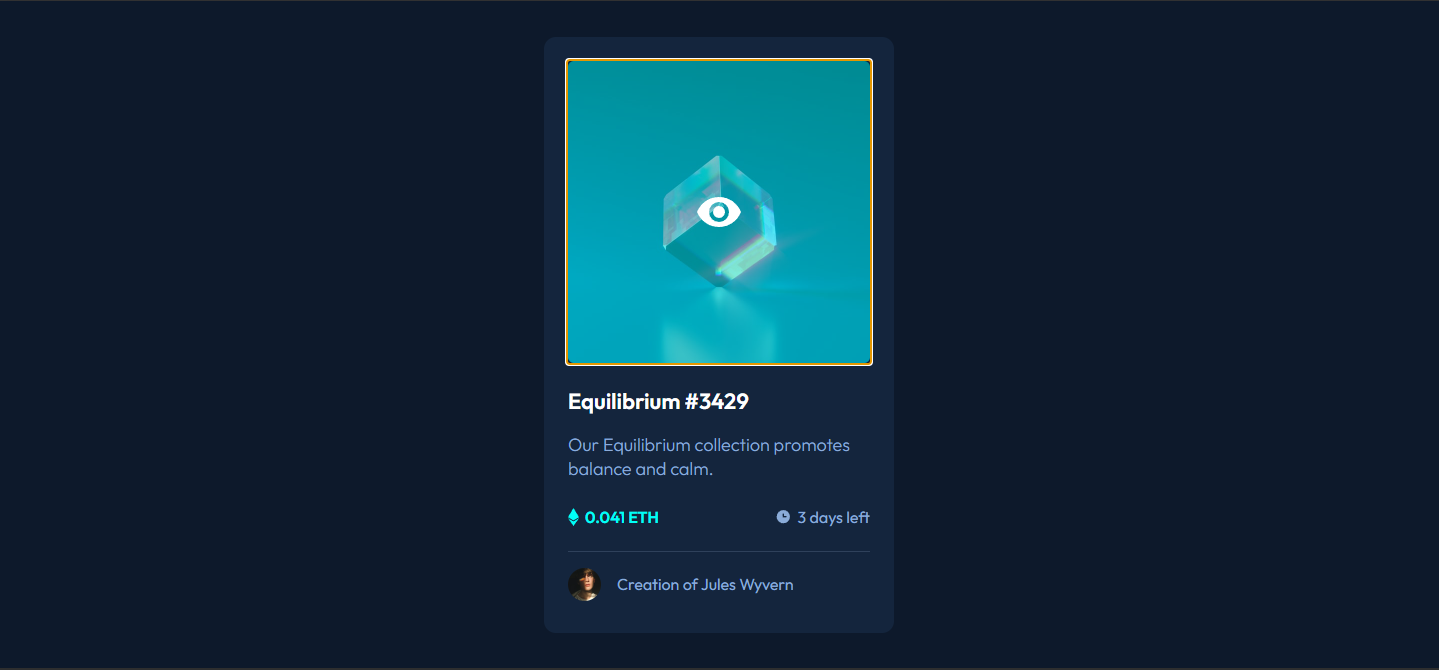
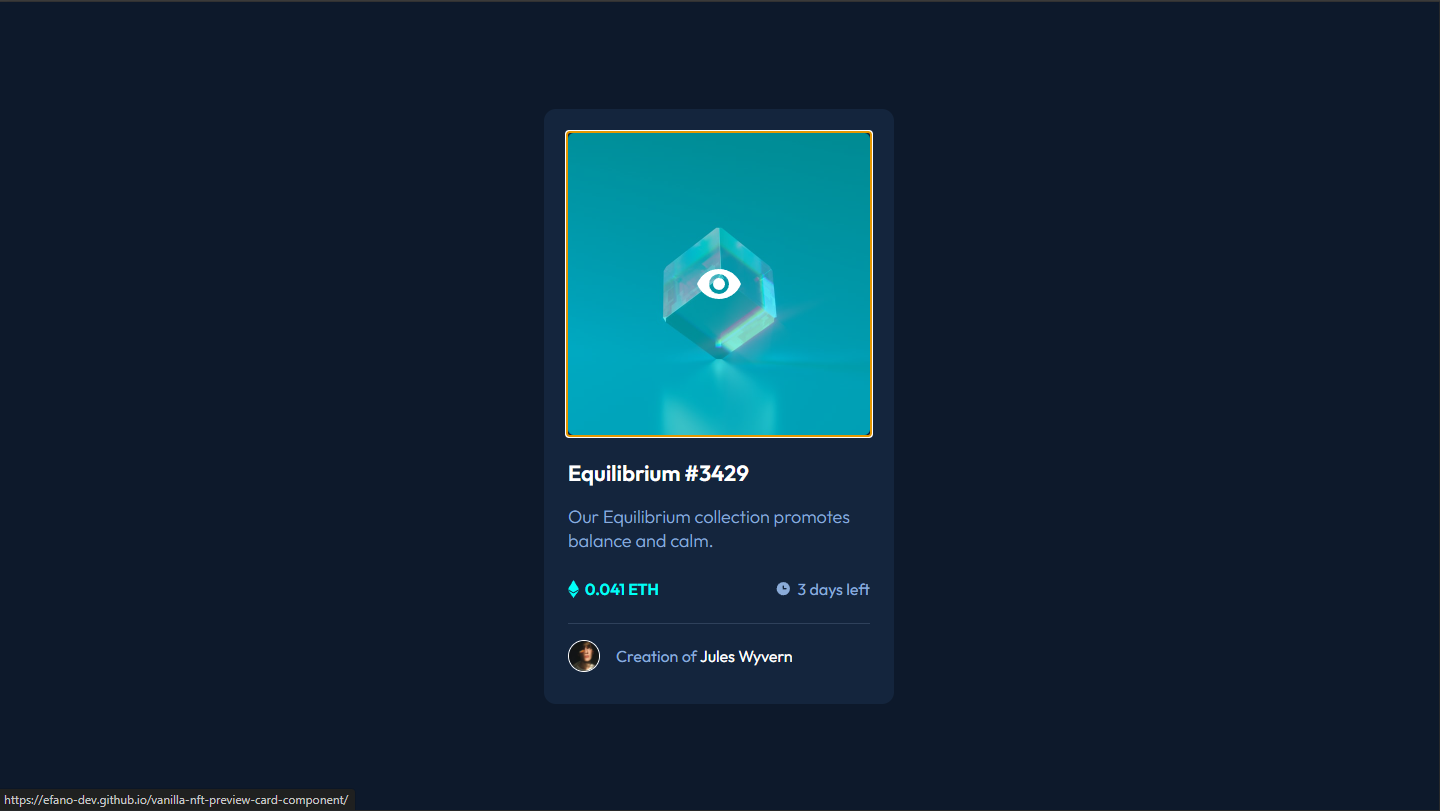
Added white color to name text and border for profile image based on design

diff --git a/index.html b/index.html
@@ -37,7 +37,7 @@
                 <div class="card__bottom">
                     <div class="card__group">
                         <img src="./assets/images/image-avatar.png" alt="Person Image" width="132" height="132" class="card__profile-image">
-                        <p class="card__p margin-left">Creation of Jules Wyvern</p>
+                        <p class="card__p margin-left">Creation of <span class="highlight-white">Jules Wyvern</span></p>
                     </div>
                 </div>
             </article>

diff --git a/styles/style.css b/styles/style.css
@@ -130,8 +130,10 @@ main {
 }
 
 .card__profile-image {
-    width: 2.0625rem;
-    height: 2.0625rem;
+    width: 2rem;
+    height: 2rem;
+    border-radius: 50%;
+    border: 1px solid var(--color-white);
 }
 
 .semi-bold {
@@ -168,6 +170,10 @@ main {
 
 .highlight {
     color: var(--color-cyan);
+}
+
+.highlight-white {
+    color: var(--color-white);
 }
 
 @media screen and (min-width: 48em) {
